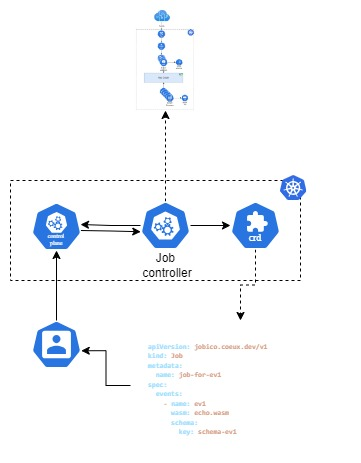
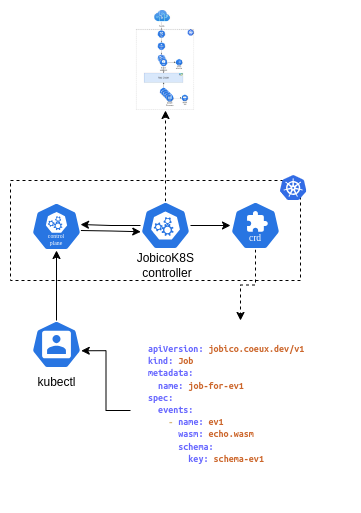
docs

diff --git a/README.md b/README.md
@@ -1,28 +1,36 @@
 # Jobico for K8s
-JobicoK8S is an open-source platform designed for defining and processing jobs as a collection of events, leveraging the power of Kubernetes and WebAssembly. It enables seamless execution of tasks in a language-agnostic manner, providing a robust infrastructure for complex workflows.
 
-### Key Features
+This project is a prototype platform that enables the definition of events using JSON schema and their asynchronous execution through WebAssembly programmed jobs. The platform harnesses the power of WebAssembly for job execution and integrates seamlessly with Kubernetes.
 
-1. **Custom Resource Definitions (CRD) for Job Definitions**
-   - **JSON Schema Definition**: Each job is defined using a Custom Resource Definition (CRD) that includes a JSON schema to validate incoming events. This schema ensures that the events conform to the expected structure and content before processing.
-   - **WebAssembly Execution**: The CRD also specifies the WebAssembly (Wasm) module responsible for executing the event. This allows for efficient, sandboxed execution of tasks in a variety of programming languages supported by WebAssembly.
+## Key Features
 
-2. **Kubernetes Operator**
-   - The JobicoK8S Kubernetes Operator automates the creation of the necessary Kubernetes infrastructure for processing events. It monitors the Custom Resources and sets up the required services, deployments, jobs, and configurations to handle the event processing as specified by the CRD.
+**Custom Resource Definitions (CRD) for Job Definitions**
 
-3. **Core Components**
-   - **Listener Component**: JobicoK8S exposes a RESTful API for receiving events. When an event is submitted, it is validated against the JSON schema defined in the job's CRD to ensure it meets all required criteria.
-   - **Runner Component**: The runner component retrieves validated events from a queue and executes the associated WebAssembly module. The event data is passed as input arguments to the WebAssembly, allowing for dynamic and flexible processing.
+Jobs are defined as a Kubernetes custom resource. This CRD currently allows defining the JSON schema to validate events and the WebAssembly program that will execute them.
 
-## Architecture
+**Kubernetes Operator**
 
-### Kubernetes Operator
+The JobicoK8S Kubernetes Operator automates the creation of the necessary Kubernetes infrastructure for processing events. It monitors the Custom Resources and sets up the required services, deployments, jobs, and configurations to handle the event processing as specified by the CRD.
+
+# Architecture
+
+## Kubernetes Operator
 
 ![Operator](img/operator.jpg)
 
-### Events processing infraestructure
+## Events processing infraestructure
 
 ![Processor](img/processor.jpg)
+
+The Kubernetes Operator generates the event processing infrastructure, with core components implemented in Go.
+
+**Core Components**
+
+   - **Listener**: JobicoK8S exposes a RESTful API for receiving events. When an event is submitted, it is validated against the JSON schema defined in the job's CRD to ensure it meets all required criteria.
+
+   - **Messaging**: The messaging component enables asynchronous execution and is implemented using [NATS](https://nats.io/). It supports high availability configurations, ensuring reliable and scalable communication within the system.
+
+   - **Runner**: The runner component retrieves validated events from the messaging system and executes the associated WebAssembly module. The event data is passed as input arguments to the WebAssembly, allowing for dynamic and flexible processing.
 
 ## Jobs Definition
 
@@ -73,13 +81,6 @@ data:
 
 #### Description
 
-- **apiVersion**: Specifies the API version of Kubernetes used for the ConfigMap resource. In this case, `v1` indicates the core Kubernetes API version.
-
-- **kind**: Defines the type of Kubernetes resource. For a ConfigMap containing a JSON schema, it is `ConfigMap`.
-
-- **metadata**:
-  - **name**: Specifies a unique identifier for this ConfigMap resource. Replace `[Unique identifier for the schema]` with a name that uniquely identifies this schema definition.
-
 - **data**:
   - **[File name: Schema identifier.json]**: Defines the filename and identifier for the JSON schema file within the ConfigMap. Replace `[File name: Schema identifier.json]` with the actual filename and identifier for your JSON schema file.
     - **[JSON schema content]**: Contains the actual JSON schema definition. Replace `[JSON schema content]` with the schema content that defines the structure and validation rules for your data.
@@ -120,25 +121,6 @@ data:
       "required": ["firstName", "lastName"]
     }
 ```
-
-### Description
-
-- **Job Definition**:
-  - `apiVersion: jobico.coeux.dev/v1` specifies the API version for the Job custom resource.
-  - `kind: Job` indicates the type of resource as a Job in JobicoK8S.
-  - `metadata: name: job-for-ev1` gives a unique name to the Job resource (`job-for-ev1`).
-  - `spec: events:` defines the list of events associated with the job.
-    - `- name: ev1` specifies an event named `ev1`, which will be used in the URI for the REST interface.
-    - `- wasm: echo.wasm` identifies the WebAssembly (Wasm) file (`echo.wasm`) that will execute the logic for the `ev1` event.
-    - `- schema: key: schema-ev1` refers to the ConfigMap key (`schema-ev1`) where the JSON schema for the `ev1` event is defined.
-
-- **ConfigMap (Schema Definition)**:
-  - `apiVersion: v1` specifies the Kubernetes API version for the ConfigMap resource.
-  - `kind: ConfigMap` indicates the type of Kubernetes resource as a ConfigMap.
-  - `metadata: name: schema-ev1` provides a unique name (`schema-ev1`) for the ConfigMap resource containing the schema definition.
-  - `data: schema-ev1.json: |` defines the filename (`schema-ev1.json`) and contains the actual JSON schema definition within the ConfigMap.
-    - The JSON schema (`{ ... }`) defines an object type with properties like `firstName`, `lastName`, and `age`, with specific data types (`string`, `integer`) and validation rules (`required` fields).
-
 ## Getting Started
 
 ### Using Jobico-cloud distribution
@@ -146,13 +128,11 @@ data:
 # 1- Creates a Kubernetes cluster with 2 nodes
 $ git clone https://github.com/andrescosta/jobico-cloud.git
 $ cd jobico-cloud
-$ ./cluster.sh new
+# Before creating the cluster install the dependencies needed by Jobico-cloud
+$ ./cluster.sh new --services
 
-# 2- Compiles and deploys the Kubernetes Operator.
-$ ./post/jobicok8s/main.sh .
-
-# 3- Creates a Job which responds to ev1 events
-$ cd jobicok8s
+# 2- Creates a Job which responds to ev1 events
+$ cd services/extras/jobicok8s/jobicok8s
 $ make ex1
 
 # 4- Sends a simple event for processing
@@ -191,3 +171,4 @@ $ kubectl logs -levent=ev1
 - [Cloud-init](https://cloud-init.io/) (only for Jobico-cloud)
 - [KVM](https://ubuntu.com/blog/kvm-hyphervisor) (only for Jobico-cloud)
 - [Helm](https://helm.sh/) (only for Jobico-cloud)
+- [Kind](https://kind.sigs.k8s.io/) (only if you use Kind instead of Jobico-cloud)
